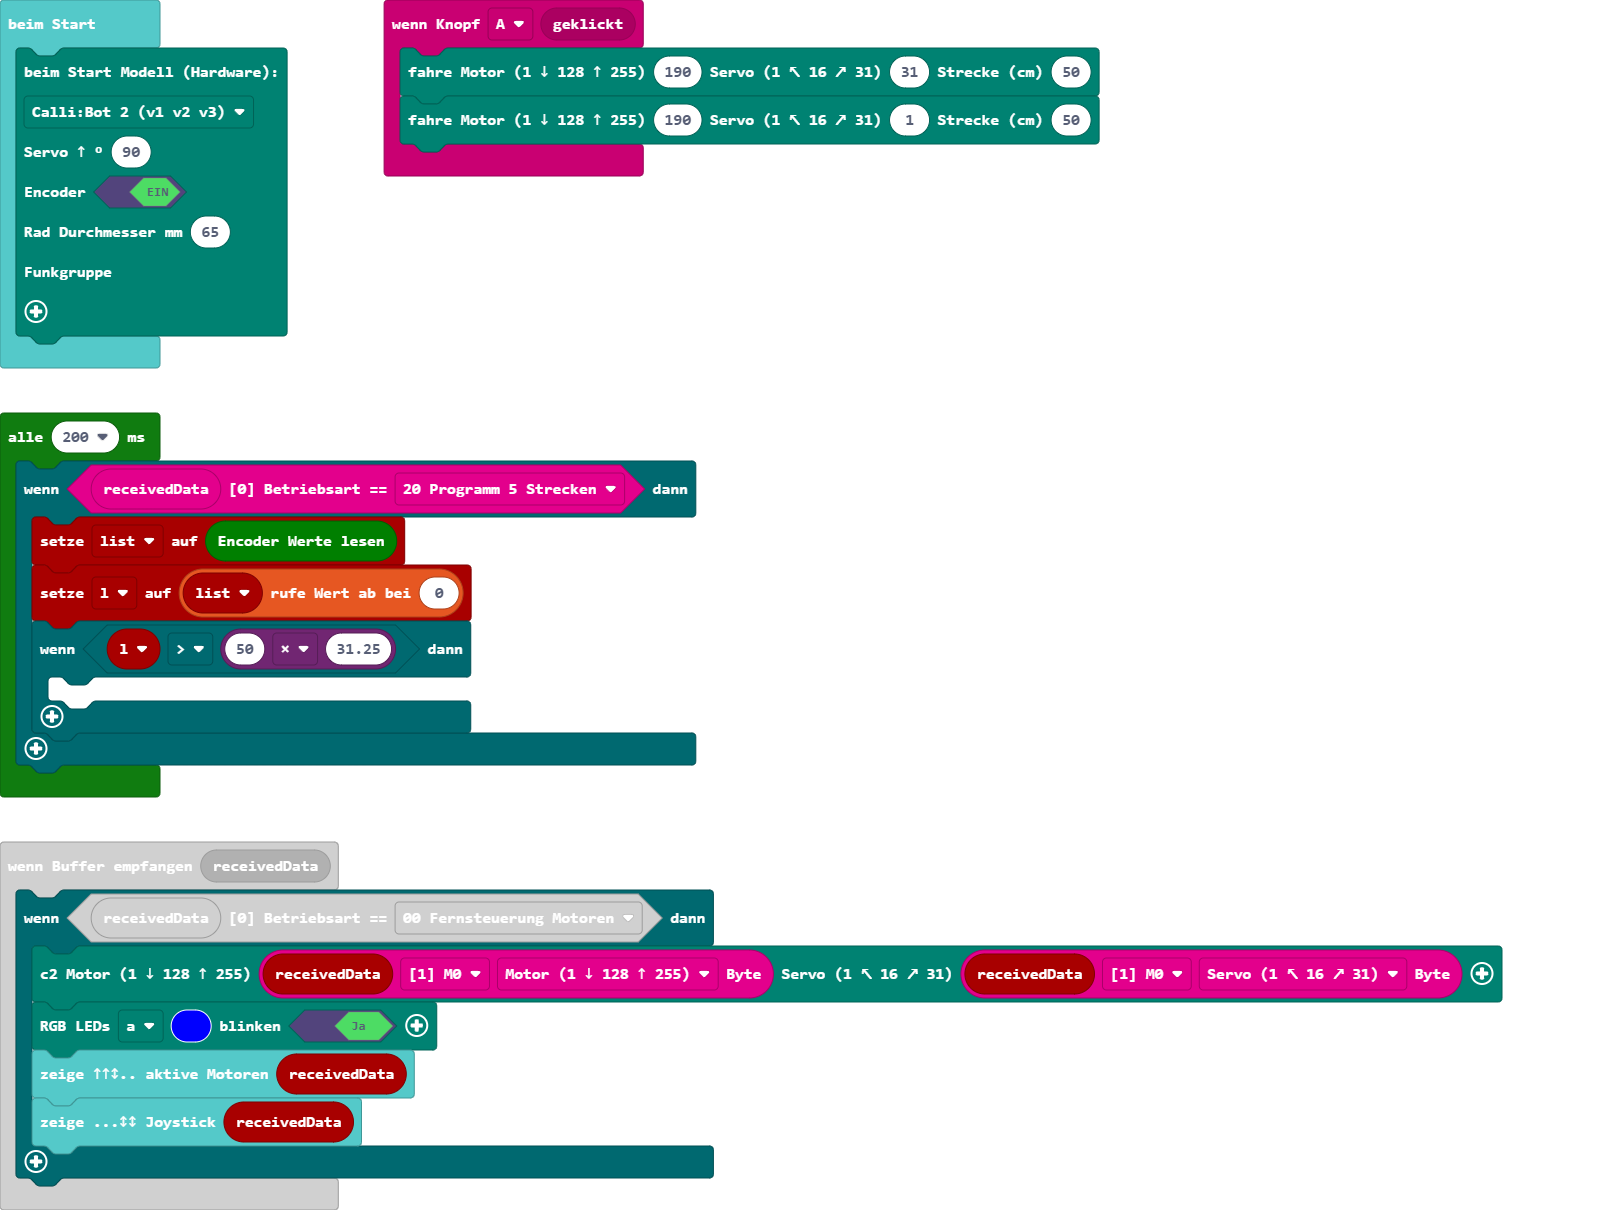
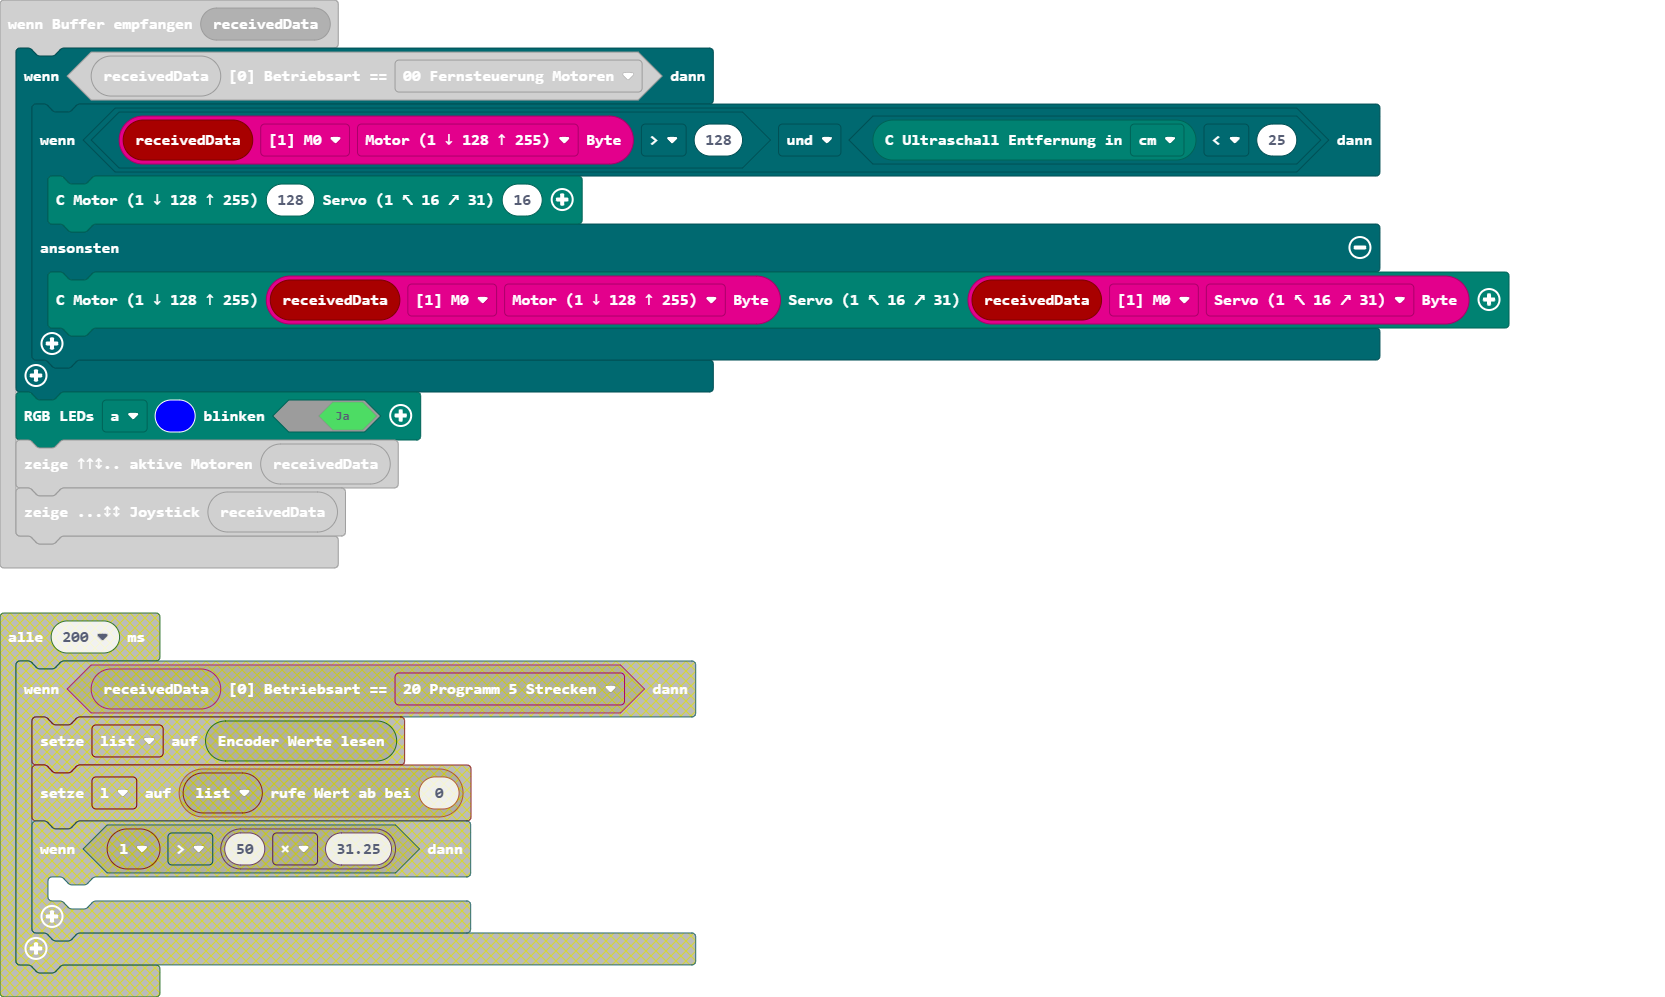
Aktualisiere pxt.json, main.blocks, main.ts

diff --git a/main.ts b/main.ts
@@ -4,26 +4,19 @@ input.onButtonEvent(Button.A, input.buttonEventClick(), function () {
 })
 radio.onReceivedData(function (receivedData) {
     if (radio.isBetriebsart(receivedData, radio.e0Betriebsart.p0)) {
-        receiver.c2motor128lenken16(radio.getByte(receivedData, radio.eBufferPointer.m0, radio.eBufferOffset.b0_Motor), radio.getByte(receivedData, radio.eBufferPointer.m0, radio.eBufferOffset.b1_Servo))
-        receiver.rgbLEDs(receiver.eRGBled.a, 0x0000ff, true)
-        radio.zeige5x5Buffer(receivedData)
-        radio.zeige5x5Joystick(receivedData)
+        if (radio.getByte(receivedData, radio.eBufferPointer.m0, radio.eBufferOffset.b0_Motor) > 128 && receiver.c2UltraschallEntfernung(receiver.eDist.cm) < 25) {
+            receiver.c2motor128lenken16(128, 16)
+        } else {
+            receiver.c2motor128lenken16(radio.getByte(receivedData, radio.eBufferPointer.m0, radio.eBufferOffset.b0_Motor), radio.getByte(receivedData, radio.eBufferPointer.m0, radio.eBufferOffset.b1_Servo))
+        }
     }
+    receiver.rgbLEDs(receiver.eRGBled.a, 0x0000ff, true)
+    radio.zeige5x5Buffer(receivedData)
+    radio.zeige5x5Joystick(receivedData)
 })
-let l = 0
-let list: number[] = []
 receiver.beimStart(
 receiver.eHardware.calli2bot,
 90,
 true,
 65
 )
-loops.everyInterval(200, function () {
-    if (radio.isBetriebsart(radio.radio_receivedBuffer19(), radio.e0Betriebsart.p2)) {
-        list = r_callibot.encoderValue()
-        l = list[0]
-        if (l > 50 * 31.25) {
-        	
-        }
-    }
-})
